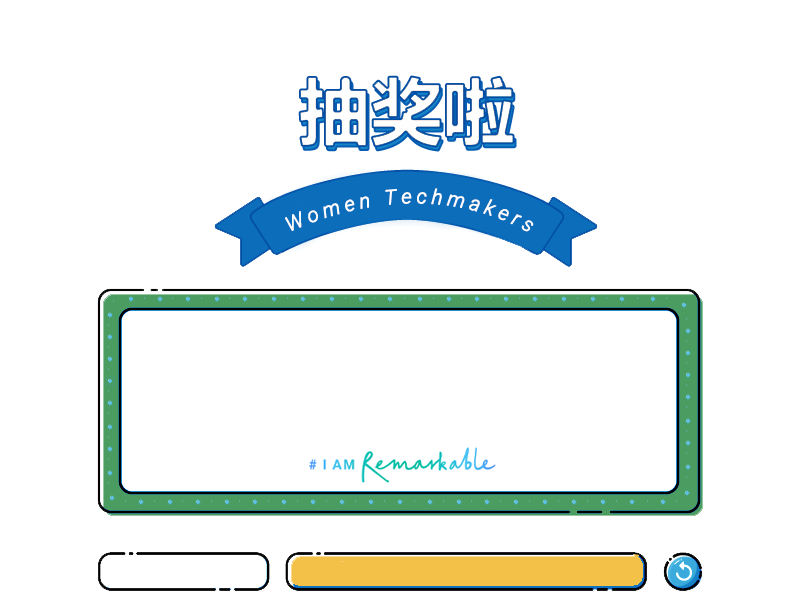
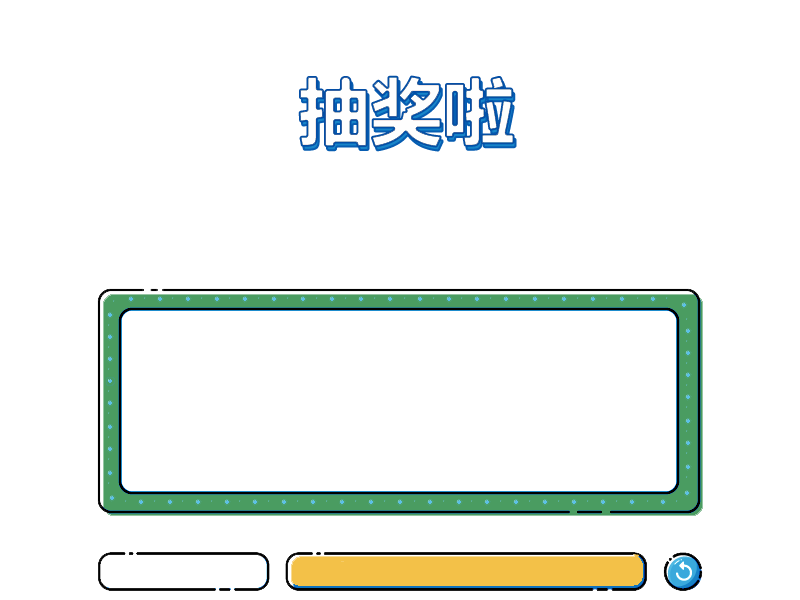
io-extended

Changed region(s): [[0.25, 0.27, 0.75, 0.45], [0.375, 0.75, 0.625, 0.81]]

diff --git a/js/index.js b/js/index.js
@@ -1,5 +1,5 @@
 //抽奖人员名单
-var allPerson = "恺兮;LoiNg;严霞;易彩燕;曾晓春;令狐;Diana;菲;谢沛妮;张宁;纪淑儿;蒋忠;彭莘昱;刘裕勋;Bryan;雅妮;陈少梦;梁浩梅;李颖磊;高骏;谢燕红;王红云;熊鹏昊;朱志斌;陳雲麗;余紫娟;薛娅;子沄;郑弯;Esther;王伟超;康诗怡;余悦圆;黄彩坚;李洽婷;Being;黎悟;徐进;陈雅楠;黄嘉嘉;庄景茹;王逸韬;曾子燕;蔡榕莹;刘少婉;范璐璐;王梓帆;黄丹丹;林琪;荣彬程;杨杰;邓舒柳;王伊晨;刘伟英;陈璜;陈雅萍;闫信月;林惠美;秦沾;蒋子云;苏娜;湛颖仪;付莉蓉;白宇潇;谢同学;陈同学;蓝翠;邱茜薇;陈小姐;李秋晓;林构锐;兜兜;汪水廷;郑皓沥;罗千姿;欧颖;何露;谢杜;蔡佳雯;吕坤;Ken;宋俊锦;戴桢;唐萍;古俊杰;曹敏;金新凯;肖金水;劳坤芳;叶永才;曹小姐;艾灵;刘霞;覃海婷;沐玉辰;张倩玉;薛杰文;陈政润;翁清铧;骆文慧;郑子铭;吕泽华;魏仲凯;林浩铌;肖礽;魏小婉;苏少萍;黄琦茵;范译方;谢永豪;杨琼玉;唐伟;路涛;李国明;杜晓彤;崔志敏;张朝凡;吴少;李孟菊;黄佳炫;翁蕾;庞诗琴;邓秋莹;刘润芸;欧蓝晰;薛妍;钟昕言;徐安琪;李慧敏;Joshion;Tammy;张嘉子;梁思健;吴;许生;He;钟萦雅;王晓璇;陈永凯;陈巧华;黄卓圆;左沁;林润熹;苏锦珠;雷国丽;ddd;关致聪;曾夫;孙启豪;田瑜琴;朱冬妹;尹智文;冯璐茜;肖丽娟;丘碧琳;韩巍;侯骅十;李盈;张洁欣;朱蓓蓓;黎月梅;农思梅;李蔼欣;谭玉麒;陈小丽;HunterKong;田;张晨阳;刘肖艳;聂献余;申海伟;jane;田红艳;黄绿茹;崔静君;姜瑜;庄;李木木;黎嘉莉;刘玲;李唯劼;KylieLam;周燕飞;陆锦;邵珂;徐婷婷;Anezka-张枫;宋玥明;崔苹苹;Max;邹敏;Alina;李汐;何若松;王其云;王青;王会斌;李爽爽;刘欢天;张昊;林华敏;吴瑞婷;罗霞;古月;叶卓尔;winner;卢泽煌;杨李杏;陈学声;Grace;罗欣怡;陈珑;殷晚玉;原健钏;黄卉;林威;招逸慧;冯慧玲;陈遥宇;覃晓露;戴观祺;余素霞;胡科;杨蒙;李宗霞;翁娟燕;郭嘉琳;张小姐;陈晓珊;谭芬芬;刘思淇;张杨童;王怡然;李诗贤;李岳;杨明玥;陈洁仪;文若昀;王艳萍;王冬;吴宝娟;王沙沙;姚诗雅;Dahong;张蜀宁;黎芳;黄春丽;晓晓;李燕;黄静仪;黄婉刁;许婷婷;魏女士;容显丽;谢红萍;陈奕安;李智荧;孙维;陈楚如;陈铭霓;黄晓彤;游美英;朱妍;杨安琪;蒙爷;梁敏;陈颖君;何艾茜;杨李君;何妙娴;杨富钧;马思敏;陈珊娜;古雅卉;黄志;钱秋何;蔡楚煜;Courtier;KelvinNg;EmmaWong;EmilyLeung;PeterLo;周欢;梁永健;梁俊丽;梁广胜;汤文辉;allen;肖敏;邓嘉荣;黄慧;文玟;何银喜;胡江伟;卫欣;杨震南;HelenPeng;李嘉楠;李泉霖Mark;张馨予;佘柠宇;梁晓源;梁国锋;梁益嵩";
+var allPerson = "王丹;林进峰;张鹤鸣;张斌;王晶晶;谢燕红;林振芳;叶伟柏;谢宇正;Lanz;王军召;邹红伟;白恒禛;谢坤;杨芬;彭泽峰;庄小姐;石锐媚;翟宇;刘成;曾宇恒;王伟超;苏亚兰;蔡洽颖;陈坤煌;森森;文立正;黄小姐(6765);高世军;蔡浩鹏;李钰亮;钟韵珊;刘永康;陳右仁;邓永华;郑晓朋;jane;王女士;伍国梁;李秋炯;欧子睿;黄济民;何慧诗;蓝生;陈海;值祺;李清;陈智旺;杨泽涛;古建荣;刘明杏;袁力;林荣志;吴志勇;许智琴;梁峰;廖煜嵘;王凯波;吴少锋;刘邦兴;杨诗昊;吴培聪;范黎静;高鑫禄;房锦波;韦王强;杜乾;张亚慧;洪习希;张球德;Ken;谢兴武;廖昊旻;梁健昆;hom;蒲师佩;陈小埋;杨东升;樊奕良;陈俊协;刘越;谢毅滦;邓金浩;何嘉成;梁晓云;曾华昌;邱茜薇;黄鑫辉;向波;陈良坤;曾俊霖;余志聪;郑楚君;黄志洺;林培育;朱凌宇;陈楚如;陳先生;宁如云;卓胜达;程堃;何泽雄;詹瑞璋;孙维;幸文权;郑钦洪;蔡振锋;包应剑;王思浩;何俊君;echooo;方泓毅;何展鹏;葉孟良;曹莹影;唐彦";
 //领导人员名单
 var leaderArr = [];
 //未中奖人员名单

diff --git a/css/style.css b/css/style.css
@@ -342,15 +342,15 @@ body > div > footer > div > button#btnReset {
 }
 
 .gdg {
-    position: absolute;
-    right: 160px;
-    bottom: -90px;
+    position: relative;
+    bottom: -640px;
 }
 
 .wtm {
     position: absolute;
     left: 160px;
     bottom: -110px;
+    display: none;
 }
 
 .logo {
